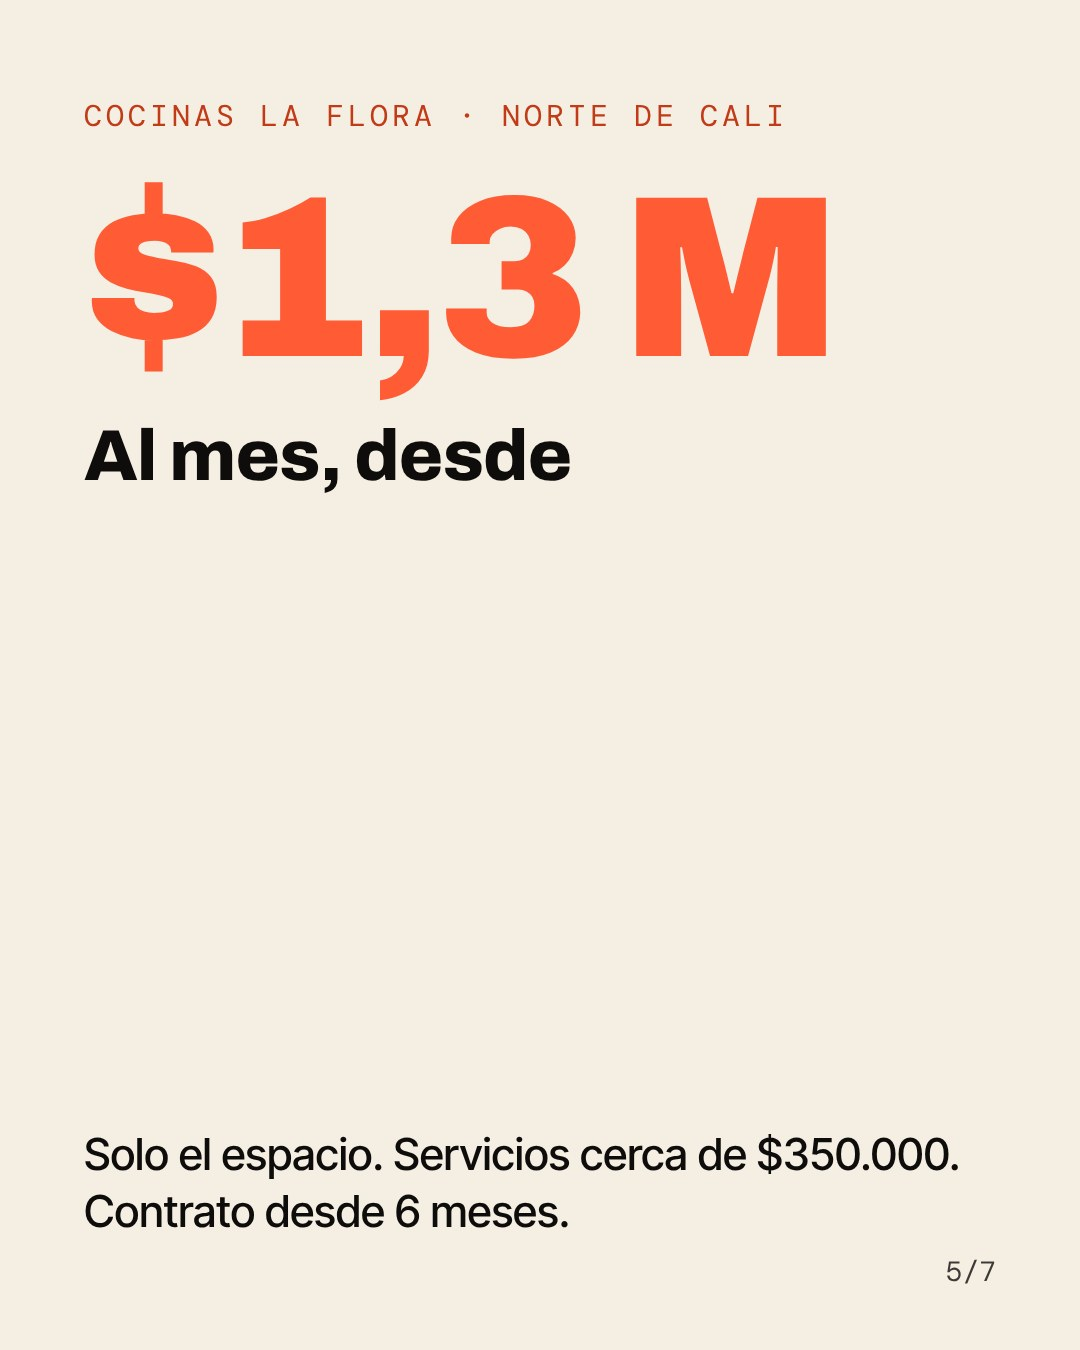
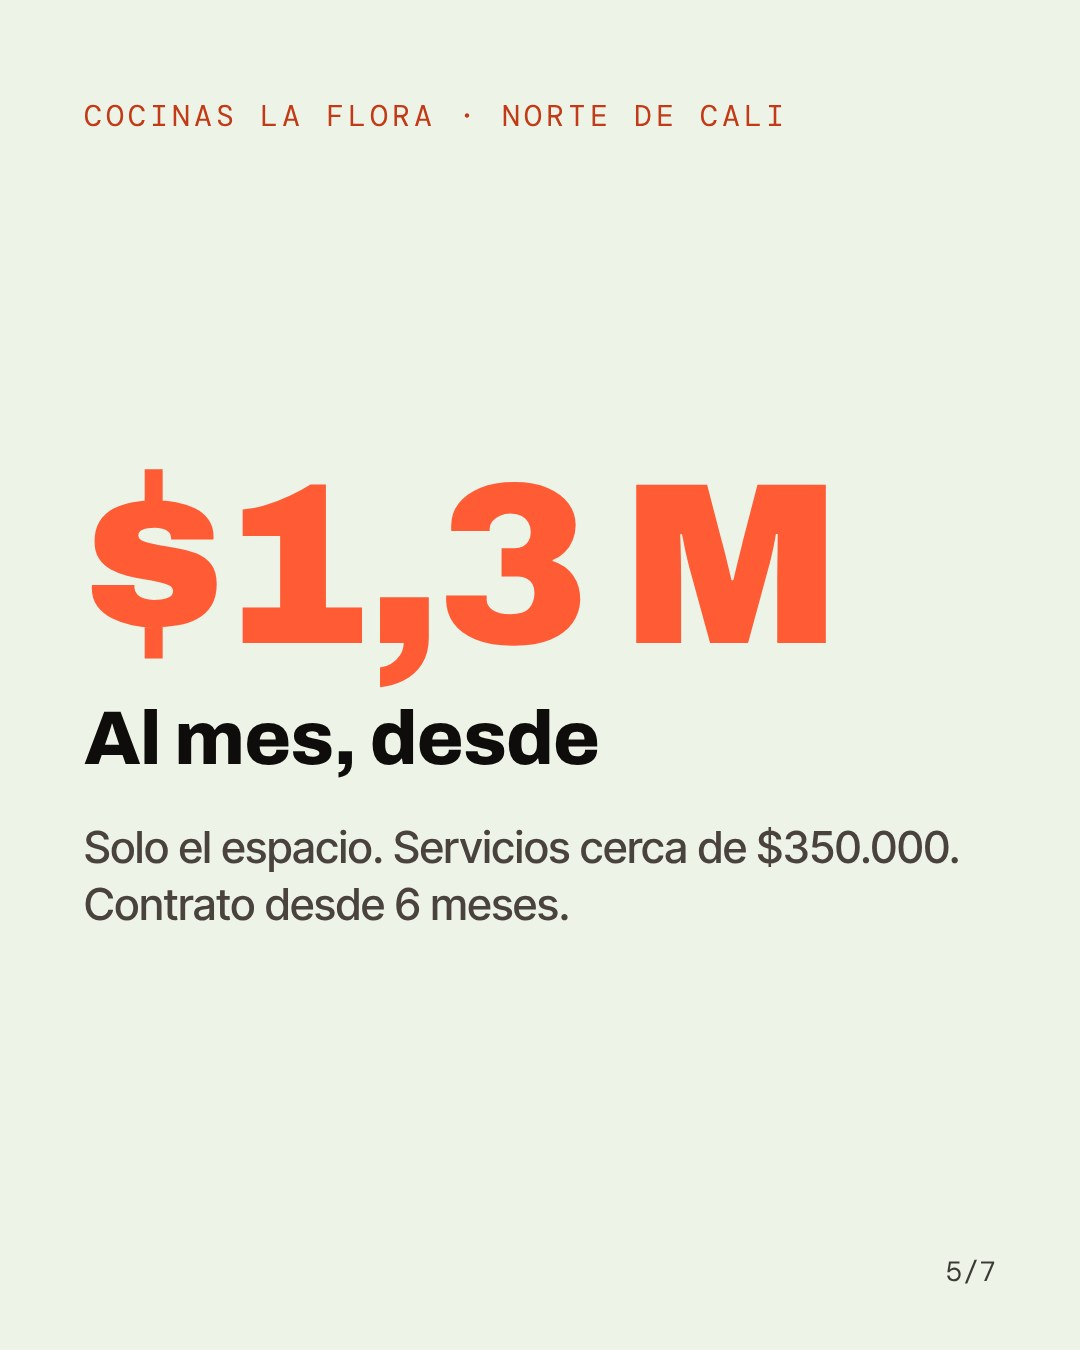
Diseño v2 «foodie vibrante»: fondos claros, foto nítida, CTA abajo legible; solo cocinas industriales
Claude-Session: https://claude.ai/code/session_01XbyNNKVU25zC2yAuVpHdEA

diff --git a/kit/render.js b/kit/render.js
@@ -61,13 +61,14 @@ function css(m, W, H) {
   html,body{margin:0;background:transparent}
   *{box-sizing:border-box}
   .s{width:${W}px;height:${H}px;position:relative;overflow:hidden;font-family:"Inter Tight";color:${c.fondo_claro};background:${c.fondo_oscuro}}
-  .bg{position:absolute;inset:0;background-size:cover;background-position:center}
+  .bg{position:absolute;inset:0;background-size:cover;background-position:center;filter:saturate(1.12) contrast(1.04)}
   .scrim{position:absolute;inset:0;background:linear-gradient(180deg,rgba(15,13,12,.86) 0%,rgba(15,13,12,.45) 45%,rgba(15,13,12,.25) 65%,rgba(15,13,12,.85) 100%)}
   .scrim2{position:absolute;inset:0;background:rgba(15,13,12,.72)}
   .lab{position:absolute;left:84px;top:${tall ? 230 : 96}px;font:400 30px "DM Mono";letter-spacing:4px;color:${c.acento}}
   h1{margin:0;font:900 var(--fs,112px)/1.0 Archivo;letter-spacing:-2px}
-  h1 em,h2 em,.big em,.q em{font-family:"Instrument Serif";font-style:italic;font-weight:400;color:${c.resalte}}
-  .claro h1 em,.claro h2 em,.claro .big em,.claro .q em{color:${c.acento_texto}}
+  h1 em,h2 em,.big em,.q em{font-style:normal;font-weight:inherit;font-family:inherit;color:${c.resalte}}
+  .claro h1 em,.claro h2 em,.claro .q em,.luz h1 em,.luz h2 em,.globo h2 em,.bubble h2 em,.limpia h2 em,.tcard h2 em{color:inherit;background:linear-gradient(180deg,transparent 56%,${c.resalte} 56%,${c.resalte} 92%,transparent 92%);padding:0 6px;margin:0 -6px;-webkit-box-decoration-break:clone;box-decoration-break:clone}
+  .claro .big em{color:inherit}
   .acento h1 em,.acento h2 em{color:${c.fondo_claro}}
   h2{margin:0;font:800 var(--fs,72px)/1.05 Archivo;letter-spacing:-1px}
   p{margin:0;font:500 44px/1.3 "Inter Tight"}
@@ -146,35 +147,51 @@ function css(m, W, H) {
   .glow{position:absolute;width:900px;height:900px;border-radius:50%;left:90px;top:${tall ? 520 : 200}px;background:radial-gradient(circle,rgba(255,91,53,.34) 0%,rgba(255,91,53,0) 65%)}
   .claro .glow{background:radial-gradient(circle,rgba(255,91,53,.18) 0%,rgba(255,91,53,0) 65%)}
   .acento .glow{background:radial-gradient(circle,rgba(255,216,77,.45) 0%,rgba(255,216,77,0) 65%)}
-  .bubble{position:absolute;left:70px;right:70px;top:300px;background:${c.fondo_claro};color:${c.fondo_oscuro};border-radius:44px;padding:56px 56px}
-  .bubble:after{content:"";position:absolute;left:50%;bottom:-46px;margin-left:-40px;border:40px solid transparent;border-top-color:${c.fondo_claro};border-bottom:0}
-  .bubble h2 em{color:${c.acento_texto}}
+  .bubble{position:absolute;left:70px;right:70px;top:300px;box-shadow:0 20px 50px rgba(15,13,12,.14);background:#fff;color:${c.fondo_oscuro};border-radius:44px;padding:56px 56px}
+  .bubble:after{content:"";position:absolute;left:50%;bottom:-46px;margin-left:-40px;border:40px solid transparent;border-top-color:#fff;border-bottom:0}
   .mascota{position:absolute;left:50%;margin-left:-180px;bottom:690px;width:360px;height:514px}
   .pj{position:absolute;left:50%;transform:translateX(-50%);bottom:0;width:${W - 60}px;-webkit-mask-image:linear-gradient(180deg,transparent 0,#000 9%);mask-image:linear-gradient(180deg,transparent 0,#000 9%)}
   .pj img{width:100%;display:block}
   .pjesc{position:absolute;inset:0;background-size:cover;background-position:center top}
-  .pjscrim{position:absolute;inset:0;background:linear-gradient(180deg,rgba(15,13,12,.80) 0%,rgba(15,13,12,.35) 34%,rgba(15,13,12,0) 55%)}
-  .globo{position:absolute;left:70px;right:70px;top:${tall ? 300 : 150}px;background:${c.fondo_oscuro};color:${c.fondo_claro};border-radius:44px;padding:50px 54px}
-  .globo:after{content:"";position:absolute;left:58%;bottom:-44px;border:44px solid transparent;border-top-color:${c.fondo_oscuro};border-bottom:0}
+  .pjscrim{display:none}
+  .globo{position:absolute;left:70px;right:70px;top:${tall ? 300 : 150}px;background:#fff;color:${c.fondo_oscuro};border-radius:44px;padding:50px 54px;box-shadow:0 20px 50px rgba(15,13,12,.18)}
+  .globo:after{content:"";position:absolute;left:58%;bottom:-44px;border:44px solid transparent;border-top-color:#fff;border-bottom:0}
   .globo.abajo{top:auto;bottom:${tall ? 640 : 120}px}
-  .globo.abajo:after{bottom:auto;top:-44px;border:44px solid transparent;border-bottom-color:${c.fondo_oscuro};border-top:0}
+  .globo.abajo:after{bottom:auto;top:-44px;border:44px solid transparent;border-bottom-color:#fff;border-top:0}
   .pjblur{position:absolute;inset:-60px;background-size:cover;background-position:center;filter:blur(40px) brightness(.55)}
   .pjancho{position:absolute;left:0;right:0;top:${tall ? 400 : 200}px}
   .pjancho img{width:100%;display:block}
-  .globo h2 em{color:${c.resalte}}
-  .globo .quien{font:400 28px "DM Mono";letter-spacing:3px;color:${c.acento};margin-bottom:18px;display:flex;align-items:center;gap:16px}
+  .globo .quien{font:700 28px "Inter Tight";letter-spacing:3px;color:${c.acento_texto};margin-bottom:18px;display:flex;align-items:center;gap:16px}
   .ondas{display:inline-flex;gap:6px;align-items:center;height:30px}
   .ondas i{display:block;width:6px;height:30px;border-radius:3px;background:${c.acento};transform-origin:50% 50%}
   .a-onda{animation:kOnda .5s ease-in-out infinite alternate;animation-play-state:paused!important;animation-fill-mode:both}
   .a-resp{animation:kResp 2.6s ease-in-out infinite alternate;animation-play-state:paused!important;animation-fill-mode:both}
   @keyframes kOnda{from{transform:scaleY(.2)}to{transform:scaleY(1)}}
   @keyframes kResp{from{transform:translateX(-50%) translateY(0) scale(1)}to{transform:translateX(-50%) translateY(-12px) scale(1.012)}}
-  .fade-baja{position:absolute;left:0;right:0;bottom:0;height:${tall ? 900 : 620}px;background:linear-gradient(180deg,rgba(15,13,12,0) 0%,rgba(15,13,12,.55) 100%)}
-  .limpia{position:absolute;left:64px;right:64px;bottom:${tall ? 400 : 90}px;background:${c.fondo_claro};color:${c.fondo_oscuro};border-radius:32px;padding:40px 46px}
-  .limpia .et{font:400 26px "DM Mono";letter-spacing:4px;color:${c.acento_texto};margin-bottom:14px}
+  .fade-baja{position:absolute;left:0;right:0;bottom:0;height:${tall ? 900 : 620}px;background:linear-gradient(180deg,rgba(15,13,12,0) 0%,rgba(15,13,12,.16) 100%)}
+  .limpia{position:absolute;left:64px;right:64px;bottom:${tall ? 400 : 90}px;box-shadow:0 20px 50px rgba(15,13,12,.22);background:#fff;color:${c.fondo_oscuro};border-radius:32px;padding:40px 46px}
+  .limpia .et{font:700 26px "Inter Tight";letter-spacing:4px;color:${c.acento_texto};margin-bottom:14px}
   .limpia h2{font-size:var(--fs,64px)}
-  .limpia h2 em{color:${c.acento_texto}}
   .limpia p{font-size:36px;margin-top:14px;opacity:.85}
+  /* Diseño v2 «foodie vibrante»: claro, foto nítida arriba, mensaje grande y CTA abajo */
+  .luz{background:${c.luz || '#FFF9F1'};color:${c.fondo_oscuro}}
+  .ffoto{position:absolute;left:40px;right:40px;top:40px;height:${tall ? 1000 : 700}px;border-radius:48px;background-size:cover;background-position:center;filter:saturate(1.15) contrast(1.05) brightness(1.03)}
+  .sticker{position:absolute;left:84px;top:${tall ? 1004 : 706}px;background:${c.resalte};color:${c.fondo_oscuro};font:800 30px/1 Archivo;letter-spacing:2px;text-transform:uppercase;padding:16px 28px;border-radius:40px;transform:rotate(-3deg);box-shadow:0 10px 30px rgba(15,13,12,.18)}
+  .sticker.b{left:auto;right:84px;background:${c.durazno};transform:rotate(3deg)}
+  .fhead{position:absolute;left:76px;right:76px;top:${tall ? 1112 : 790}px}
+  .fhead h1{font:900 var(--fs,${tall ? 88 : 74}px)/1.04 Archivo;letter-spacing:-2px}
+  .fhead p{margin-top:${tall ? 26 : 20}px;font:500 ${tall ? 40 : 34}px/1.3 "Inter Tight";color:#4A423C}
+  .fhead .desliza{display:inline-block;margin-top:${tall ? 30 : 24}px;font:700 34px "Inter Tight";color:${c.acento_texto}}
+  .fcta{position:absolute;left:52px;right:52px;bottom:var(--cb,${tall ? 250 : 46}px);background:${c.acento};color:#fff;border-radius:40px;padding:${tall ? '34px 40px' : '26px 36px'};display:flex;align-items:center;gap:30px;box-shadow:0 18px 40px rgba(194,58,22,.28)}
+  .fcta .ico{flex:none;width:${tall ? 104 : 88}px;height:${tall ? 104 : 88}px;border-radius:50%;background:#fff;display:flex;align-items:center;justify-content:center}
+  .fcta .l1{font:900 ${tall ? 60 : 52}px/1.02 Archivo;letter-spacing:-1px}
+  .fcta .l2{font:700 ${tall ? 42 : 36}px/1.2 "Inter Tight";margin-top:8px}
+  .pills{display:flex;flex-wrap:wrap;gap:16px;justify-content:center}
+  .pill{background:#fff;border-radius:40px;padding:16px 28px;font:700 34px "Inter Tight";box-shadow:0 8px 24px rgba(15,13,12,.08)}
+  .pill:nth-child(2){background:${c.salvia}}.pill:nth-child(3){background:${c.durazno}}
+  .tcard{position:absolute;left:64px;right:64px;top:300px;background:#fff;color:${c.fondo_oscuro};border-radius:36px;padding:44px 48px;box-shadow:0 20px 50px rgba(15,13,12,.22)}
+  .tcard h2{font:900 var(--fs,76px)/1.04 Archivo;letter-spacing:-1.5px}
+  .tcard p{margin-top:16px;font:600 38px/1.25 "Inter Tight";color:#4A423C}
   .sub{position:absolute;left:70px;right:70px;bottom:520px;display:flex;justify-content:center}
   .sub span{background:${c.fondo_oscuro};color:${c.fondo_claro};font:800 58px/1.18 Archivo;padding:18px 30px;border-radius:20px;text-align:center;box-shadow:0 0 0 6px ${c.acento}}
   `;
@@ -198,13 +215,38 @@ function mascotaSvg(m) {
   </svg></div>`;
 }
 
-function ctaBody(m, spec) {
-  return `<div class="s acento"><div class="center">${llamaSvg(m.colores.fondo_oscuro)}
-    <div class="marca">${m.marca_html}</div>
-    <h1 style="--fs:${spec.cta_fs || 140}px">${rich(spec.cta || m.cta).replace(' ', '<br>')}</h1>
-    <div class="btn">${esc(m.cta_boton)}</div>
-    <div class="mono">${esc(m.cta_web)}</div>
-    <div class="cod">Código ${esc(spec.codigo)}</div></div></div>`;
+// Icono genérico de chat (no usamos logos de terceros)
+function chatIco(m) {
+  return `<div class="ico"><svg width="56" height="56" viewBox="0 0 24 24"><path d="M12 2C6.5 2 2 6 2 11c0 2.4 1 4.6 2.8 6.2L4 22l5-2.3c1 .3 2 .4 3 .4 5.5 0 10-4 10-9S17.5 2 12 2z" fill="${m.colores.acento}"/><path d="M8.6 7.6c.3-.3.8-.3 1 .1l.8 1.6c.1.3.1.6-.1.8l-.5.6c.6 1.2 1.6 2.2 2.8 2.8l.6-.5c.2-.2.5-.2.8-.1l1.6.8c.4.2.4.7.1 1l-.7.8c-.5.5-1.3.6-2 .3-2.3-1-4.1-2.8-5.1-5.1-.3-.7-.2-1.5.3-2z" fill="#fff"/></svg></div>`;
+}
+// Bloque de llamada a la acción: siempre abajo, letra de palo grande y legible
+function ctaBloque(m, spec, bottom) {
+  return `<div class="fcta"${bottom ? ` style="--cb:${bottom}px"` : ''}>${chatIco(m)}<div><div class="l1">${esc(spec.cta || m.cta)}</div><div class="l2">${esc(m.cta_boton)}</div></div></div>`;
+}
+// Cierre: fondo claro, marca arriba, beneficios al centro, CTA abajo
+function ctaBody(m, spec, video) {
+  const H = spec._H || 1920, tall = H > 1500;
+  const bottom = tall ? (video ? 380 : 250) : 46;
+  const titulo = spec.cta_titulo || m.cta_titulo || 'Tu cocina *privada* en el norte de Cali';
+  const puntos = (m.cta_puntos || []).map(x => `<span class="pill">${esc(x)}</span>`).join('');
+  return `<div class="s luz">
+    <div style="position:absolute;left:0;right:0;top:${tall ? 260 : 110}px;display:flex;flex-direction:column;align-items:center;gap:${tall ? 22 : 14}px">${llamaSvg(m.colores.acento)}<div class="marca">${m.marca_html}</div></div>
+    <div style="position:absolute;left:76px;right:76px;top:${tall ? 640 : 420}px;text-align:center"><h1 style="--fs:${spec.cta_fs || (tall ? 96 : 80)}px;font-weight:900">${rich(titulo)}</h1>
+      <div class="pills" style="margin-top:${tall ? 50 : 36}px">${puntos}</div></div>
+    <div style="position:absolute;left:0;right:0;bottom:${bottom + (tall ? 200 : 168)}px;text-align:center" class="mono">${esc(m.cta_web)}<div class="cod" style="margin-top:10px">Código ${esc(spec.codigo)}</div></div>
+    ${ctaBloque(m, spec, bottom)}</div>`;
+}
+// Diseño v2 «foodie vibrante»: foto nítida arriba, titular grande en fondo claro, CTA abajo
+function foodieBody(m, l, i, n, H, fmt) {
+  const img = l.imagen || m.imagenes[i % m.imagenes.length];
+  const pg = n > 1 ? `<div class="pg" style="color:#4A423C">${i + 1}/${n}</div>` : '';
+  const conCta = fmt !== 'carrusel' && l.cta !== false;
+  const st = `<div class="sticker">${esc(l.sticker || m.sticker || 'Norte de Cali')}</div>${l.sticker2 ? `<div class="sticker b">${esc(l.sticker2)}</div>` : ''}`;
+  const desliza = fmt === 'carrusel' && i === 0 ? `<div class="desliza">Desliza →</div>` : '';
+  const recorte = l.recorte ? `background-color:${l.fondo_foto || m.colores.durazno};background-size:auto 96%;background-position:center bottom;background-repeat:no-repeat;` : '';
+  return `<div class="s luz"><div class="ffoto" style="background-image:url(${fileUrl(m, img)});${recorte}${l.foco ? 'background-position:' + l.foco : ''}"></div>${st}
+    <div class="fhead"><h1${l.fs ? ` style="--fs:${l.fs}px"` : ''}>${rich(l.titulo)}</h1>${l.texto ? `<p>${rich(l.texto)}</p>` : ''}${desliza}</div>
+    ${conCta ? ctaBloque(m, l) : ''}${conCta ? '' : pg}</div>`;
 }
 
 // ---------- Piezas de infografía (sirven en estático y en movimiento) ----------
@@ -264,10 +306,10 @@ function fondoClase(l, def) {
 }
 
 // Lámina estática
-function laminaBody(m, l, i, n, H) {
+function laminaBody(m, l, i, n, H, fmt) {
   const pg = n > 1 ? `<div class="pg">${i + 1}/${n}</div>` : '';
   const lab = `<div class="lab">${esc(m.etiqueta)}</div>`;
-  if (l.tipo === 'cta') return ctaBody(m, l);
+  if (l.tipo === 'cta') return ctaBody(m, Object.assign({ _H: H }, l));
   const info = infoBody(m, l, H, false);
   if (info) return `<div class="s ${fondoClase(l, 'claro')}">${lab}${info}${pg}</div>`;
   if (l.tipo === 'foto') {
@@ -278,22 +320,17 @@ function laminaBody(m, l, i, n, H) {
     const r = personajeBody(m, l, H, false);
     return `<div class="s ${r.cls}">${r.html}${lab}${pg}</div>`;
   }
+  // Láminas de texto: bloque agrupado y centrado, fondos claros que alternan (luz, salvia, durazno)
+  const tinte = ['#FFF9F1', '#EEF3E8', '#FFEADF'][i % 3];
+  const cb = (inner) => `<div class="s claro" style="background:${l.fondo ? '' : tinte}">${lab}<div style="position:absolute;left:84px;right:84px;top:${H > 1500 ? 300 : 170}px;bottom:${H > 1500 ? 420 : 130}px;display:flex;flex-direction:column;justify-content:center">${inner}</div>${pg}</div>`;
   if (l.tipo === 'dato') {
-    return `<div class="s ${fondoClase(l, 'claro')}">${lab}
-      <div class="top"><div class="big">${rich(l.dato)}</div><div style="height:30px"></div><h2>${rich(l.titulo)}</h2></div>
-      <div class="bottom"><p>${rich(l.texto)}</p></div>${pg}</div>`;
+    return cb(`<div class="big">${rich(l.dato)}</div><div style="height:24px"></div><h2 style="--fs:${l.fs || 76}px">${rich(l.titulo)}</h2><div style="height:40px"></div><p style="font-size:44px;color:#4A423C">${rich(l.texto)}</p>`);
   }
   if (l.tipo === 'claro') {
-    return `<div class="s ${fondoClase(l, 'claro')}">${lab}
-      <div class="top"><div class="bar"></div><h2 style="--fs:${l.fs || 84}px">${rich(l.titulo)}</h2></div>
-      <div class="bottom"><p>${rich(l.texto)}</p></div>${pg}</div>`;
+    return cb(`<div class="bar"></div><h2 style="--fs:${l.fs || 92}px;font-weight:900">${rich(l.titulo)}</h2><div style="height:44px"></div><p style="font-size:46px;color:#4A423C">${rich(l.texto)}</p>`);
   }
-  // portada con foto
-  const img = l.imagen || m.imagenes[i % m.imagenes.length];
-  return `<div class="s"><div class="bg" style="background-image:url(${fileUrl(m, img)})"></div><div class="scrim"></div>
-    ${lab}
-    <div class="top"><h1 style="--fs:${l.fs || 112}px">${rich(l.titulo)}</h1></div>
-    <div class="bottom"><p>${rich(l.texto || '')}</p></div>${pg}</div>`;
+  // portada (por defecto): diseño v2 foodie vibrante
+  return foodieBody(m, l, i, n, H, fmt);
 }
 
 // Tarjeta limpia sobre foto: la foto manda, el texto va corto en una tarjeta crema
@@ -313,10 +350,10 @@ function personajeBody(m, e, H, anim) {
   const ondas = anim === false ? '' : `<span class="ondas">${[0, .12, .24, .08, .18].map(d => `<i class="a-onda" style="animation-delay:${d}s"></i>`).join('')}</span>`;
   const abajo = pose.tipo === 'escena' || pose.tipo === 'ancho';
   const globo = `<div class="globo${abajo ? ' abajo' : ''}${anim === false ? '' : ' a-pop" style="animation-delay:' + (anim + 0.2) + 's'}"><div class="quien">${esc((pj.nombre || '').toUpperCase())}${ondas}</div>
-    <h2 style="--fs:${e.fs || 70}px">${t}</h2>${e.texto ? `<p style="margin-top:22px;font-size:40px;color:${m.colores.arena}">${rich(e.texto)}</p>` : ''}</div>`;
+    <h2 style="--fs:${e.fs || 70}px">${t}</h2>${e.texto ? `<p style="margin-top:22px;font-size:40px;color:#4A423C">${rich(e.texto)}</p>` : ''}</div>`;
   if (pose.tipo === 'ancho') {
     const u = fileUrl(m, pose.archivo);
-    return { cls: '', html: `<div class="pjblur" style="background-image:url(${u})"></div><div class="pjancho${anim === false ? '' : ' a-fade'}"><img src="${u}"></div>${globo}` };
+    return { cls: 'claro', html: `<div class="pjancho${anim === false ? '' : ' a-fade'}"><img src="${u}"></div>${globo}` };
   }
   if (pose.tipo === 'escena') {
     return { cls: '', html: `<div class="pjesc${anim === false ? '' : ' a-zoom'}" style="background-image:url(${fileUrl(m, pose.archivo)})"></div><div class="pjscrim"></div>${globo}` };
@@ -327,10 +364,10 @@ function personajeBody(m, e, H, anim) {
 // Escena de motion graphic (Reel)
 function motionBody(m, e, H) {
   const lab = `<div class="lab a-fade" style="animation-delay:0s">${esc(m.etiqueta)}</div>`;
-  const bgImg = e.imagen ? `<div class="bg a-zoom" style="background-image:url(${fileUrl(m, e.imagen)})"></div><div class="scrim2"></div>` : '';
+  const bgImg = e.imagen ? `<div class="bg a-zoom" style="background-image:url(${fileUrl(m, e.imagen)})"></div><div class="scrim2" style="background:rgba(255,249,241,.82)"></div>` : '';
   const glow = `<div class="glow a-glow"></div>`;
-  const def = e.modo === 'llama' ? 'oscuro' : (e.modo === 'kinetic' || e.modo === 'contador') ? 'oscuro' : 'claro';
-  const cls = e.imagen ? '' : fondoClase(e, def);
+  const def = 'claro';
+  const cls = e.imagen ? 'claro' : fondoClase(e, def);
   let inner;
   if (e.modo === 'kinetic') {
     const k = kineticWords(e.titulo, 0.2, 0.16);
@@ -437,7 +474,7 @@ async function main() {
     for (let i = 0; i < laminas.length; i++) {
       const l = Object.assign({ codigo: spec.codigo }, laminas[i]);
       const out = path.join(outDir, `${String(i + 1).padStart(2, '0')}.jpg`);
-      await shoot(browser, { css: css(m, W, H), body: laminaBody(m, l, i, laminas.length, H) }, W, H, out);
+      await shoot(browser, { css: css(m, W, H), body: laminaBody(m, l, i, laminas.length, H, tipo) }, W, H, out);
       files.push(out);
     }
   } else if (tipo === 'capas') {
@@ -452,7 +489,7 @@ async function main() {
       spec._escenas.push({ segundos: e.segundos || 3.5, fuente: e.fuente || null, capa: out });
     }
     const cta = path.join(outDir, 'cierre.jpg');
-    await shoot(browser, { css: css(m, W, H), body: ctaBody(m, spec) }, W, H, cta);
+    await shoot(browser, { css: css(m, W, H), body: ctaBody(m, Object.assign({ _H: H }, spec), true) }, W, H, cta);
     files.push(cta);
     spec._escenas.push({ segundos: spec.cta_segundos || 3, fuente: 'cierre', capa: null });
   } else if (tipo === 'reel') {
@@ -469,12 +506,10 @@ async function main() {
       }
       const dur = e.segundos || 3.5;
       const ov = path.join(outDir, `_ov${i}.png`);
-      const ovBody = `<div class="s" style="background:transparent"><div style="position:absolute;inset:0;background:linear-gradient(180deg,rgba(15,13,12,.82) 0%,rgba(15,13,12,.55) 38%,rgba(15,13,12,0) 62%)"></div><div class="lab">${esc(m.etiqueta)}</div>
-        <div class="top">${e.barra ? '<div class="bar"></div>' : ''}<h1 style="--fs:${e.fs || 118}px">${rich(e.titulo)}</h1>
-        ${e.texto ? `<div style="height:40px"></div><p style="color:${m.colores.resalte};font-weight:700">${rich(e.texto)}</p>` : ''}</div></div>`;
+      const ovBody = `<div class="s" style="background:transparent"><div class="tcard"><h2 style="--fs:${e.fs || 76}px">${rich(e.titulo)}</h2>${e.texto ? `<p>${rich(e.texto)}</p>` : ''}</div></div>`;
       await shoot(browser, { css: css(m, W, H), body: ovBody }, W, H, ov, true);
       const frames = Math.round(dur * FPS);
-      const dark = 'eq=brightness=-0.22:saturation=1.05';
+      const dark = 'eq=brightness=0.02:contrast=1.04:saturation=1.15';
       if (e.video) {
         ff(['-ss', String(e.desde || 0), '-t', String(dur), '-i', path.join(ROOT, 'marcas', m.slug, e.video), '-loop', '1', '-t', String(dur), '-i', ov,
           '-filter_complex', `[0:v]scale=${W}:${H}:force_original_aspect_ratio=increase,crop=${W}:${H},${dark},fps=${FPS}[b];[1:v]format=rgba,fade=t=in:st=0.15:d=0.35:alpha=1[t];[b][t]overlay=0:0,format=yuv420p[v]`,
@@ -490,7 +525,7 @@ async function main() {
     }
     // Cierre CTA
     const ctaPng = path.join(outDir, `_cta.jpg`);
-    await shoot(browser, { css: css(m, W, H), body: ctaBody(m, spec) }, W, H, ctaPng);
+    await shoot(browser, { css: css(m, W, H), body: ctaBody(m, Object.assign({ _H: H }, spec), true) }, W, H, ctaPng);
     const ctaPart = path.join(outDir, `_pcta.mp4`);
     const cd = spec.cta_segundos || 3.5, cf = Math.round(cd * FPS);
     ff(['-loop', '1', '-i', ctaPng, '-filter_complex', `[0:v]scale=${W * 2}:${H * 2},zoompan=z='1+0.04*on/${cf}':x='iw/2-(iw/zoom/2)':y='ih/2-(ih/zoom/2)':d=${cf}:s=${W}x${H}:fps=${FPS},format=yuv420p[v]`,
